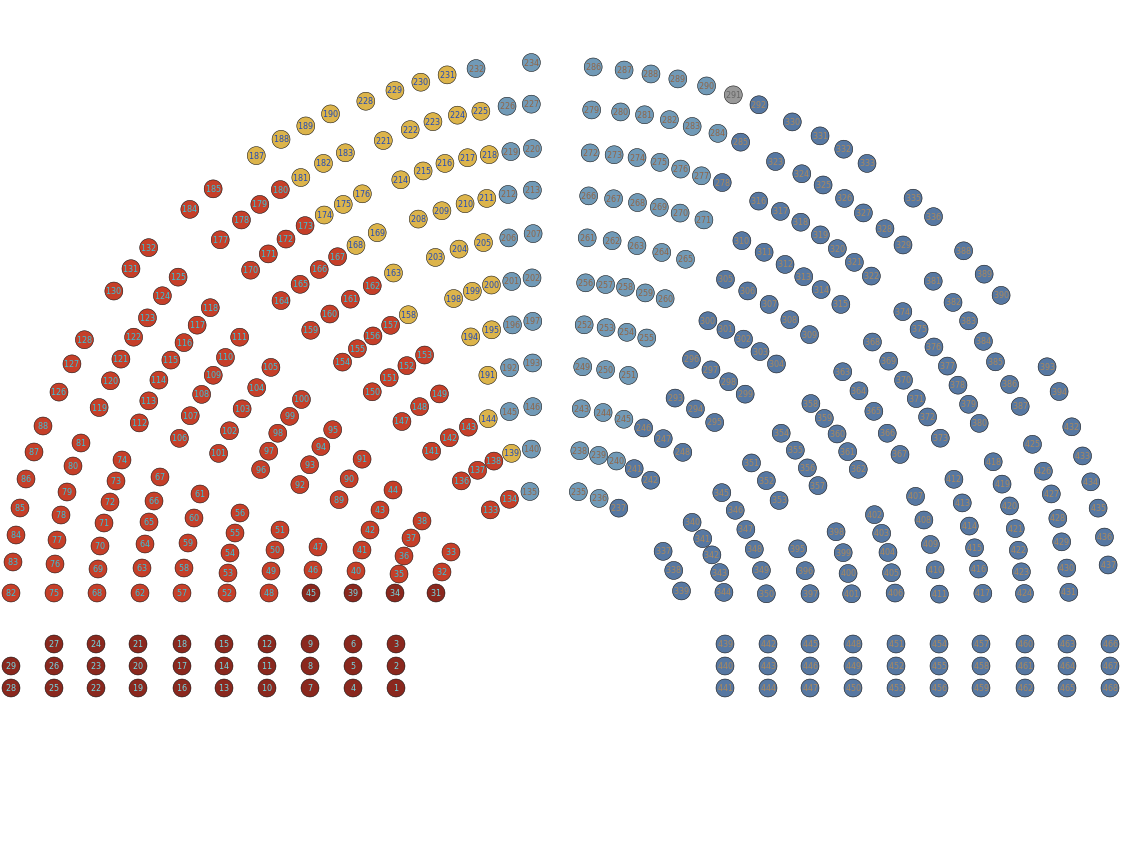
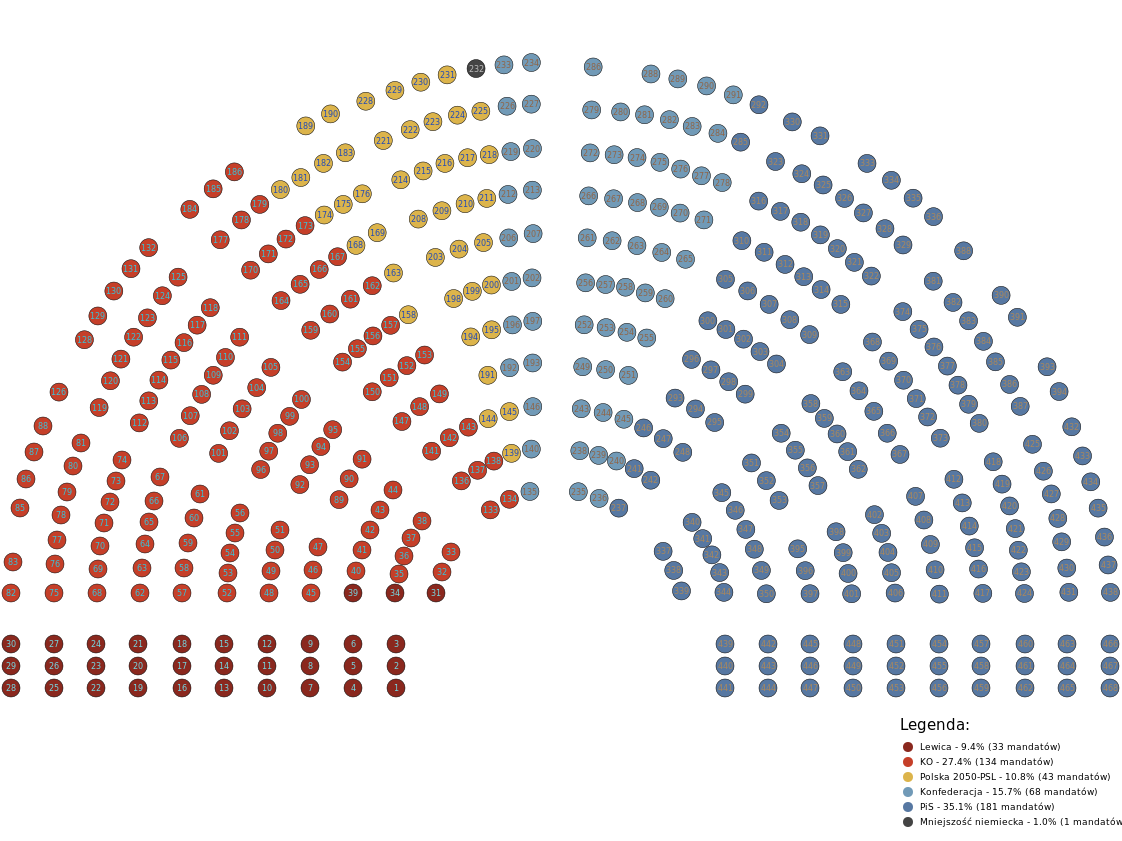
Legend

diff --git a/pyrlament/generator.py b/pyrlament/generator.py
@@ -161,9 +161,11 @@ class SeatsGenerator:
 
     _skip_empty_seats = True
 
-    def __init__(self, parties: List[Party], logotype: Optional[str] = None, skip_empty_seats: bool = True):
+    def __init__(self, parties: List[Party], logotype: Optional[str] = None, legend: bool = True,
+                 skip_empty_seats: bool = True):
         self.parties = parties
-        # self.logotype = logotype
+        self.logotype = logotype
+        self.legend = legend
         self._skip_empty_seats = skip_empty_seats
         self._multiply_center_sectors()
         seats = self._left_sector + self._center_sector + self._right_sector
@@ -369,9 +371,6 @@ class SeatsGenerator:
                 self._set_seat_color(seat, color)
                 cnt += 1
 
-    def _put_logotype(self):
-        pass
-
     def _get_svg(self):
         svg = drawsvg.Drawing(1122, 841, overflow="hidden")
         g = drawsvg.Group(transform="translate(0 50)")
@@ -392,9 +391,20 @@ class SeatsGenerator:
                 g.append(seat_number)
         svg.append(g)
 
-        if self.logotype:
-            logotype = drawsvg.Rectangle(0, 0, 190, 190)
-            svg.append(logotype)
+        # if self.logotype:
+        #     logotype = drawsvg.Rectangle(0, 0, 190, 190)
+        #    svg.append(logotype)
+
+        if self.legend:
+            legend = drawsvg.Group(transform="translate(900 730)")
+            legend.append(drawsvg.Text("Legenda:", 15, 0, 0, fill="#000000", font_family="sans-serif"))
+            cr_x = 20
+            cr_y = 20
+            for party in self.parties:
+                legend.append(drawsvg.Circle(cr_x-12, cr_y-3, 5, fill=f"#{party.color}"))
+                legend.append(drawsvg.Text(f"{party.label} - {party.support}% ({party.seats} mandatów)", 9, cr_x, cr_y, fill="#000000", font_family="sans-serif"))
+                cr_y += 15
+            svg.append(legend)
 
         return svg
 

diff --git a/pyrlament/data.py b/pyrlament/data.py
@@ -5,11 +5,18 @@ from pydantic import BaseModel
 
 class Party(BaseModel):
     name: str
+    label: str
     support: float
     threshold: int = 5
     seats: Optional[int] = None
     color: Optional[str] = None
     order: int = 0
+
+    def __init__(self, **kwargs):
+        print(kwargs)
+        if 'name' in kwargs and 'label' not in kwargs:
+            kwargs['label'] = kwargs['name']
+        super(Party, self).__init__(**kwargs)
 
 
 class Candidate(BaseModel):
@@ -102,7 +109,7 @@ GENERAL_SUPPORT = PartySupportList.load(
     2019,
 )
 
-GERMAN_MINORITY = Party(name="Mniejszość niemiecka", support=1, threshold=0, seats=1, color="999999")
+GERMAN_MINORITY = Party(name="Mniejszość niemiecka", support=1, threshold=0, seats=1, color="444444")
 
 DISTRICTS = [
     District(

diff --git a/pyrlament/scripts.py b/pyrlament/scripts.py
@@ -6,7 +6,7 @@ def demo():
     election2019 = [
         Party(name="Lewica", support=9.4, color="8A281E"),
         Party(name="KO", support=27.4, threshold=8, color="C53F29"),
-        Party(name="PSL", support=10.8, color="DCB44B"),
+        Party(name="PSL", label="Polska 2050-PSL", support=10.8, threshold=8, color="DCB44B"),
         Party(name="Konfederacja", support=15.7, color="719AB7"),
         Party(name="PiS", support=35.1, threshold=8, color="5778A2"),
     ]

diff --git a/demo.py b/demo.py
@@ -8,7 +8,7 @@ from pyrlament.data import Party
 election2019 = [
     Party(name="Lewica", support=9.4, color="8A281E"),
     Party(name="KO", support=27.4, threshold=8, color="C53F29"),
-    Party(name="PSL", support=10.8, color="DCB44B"),
+    Party(name="PSL", label="Polska 2050-PSL", support=10.8, threshold=8, color="DCB44B"),
     Party(name="Konfederacja", support=15.7, color="719AB7"),
     Party(name="PiS", support=35.1, threshold=8, color="5778A2"),
 ]

diff --git a/README.md b/README.md
@@ -20,7 +20,7 @@ Python library for visualizing seats in the Sejm of the Republic of Poland. So f
         Party(name="PiS", support=43.59, threshold=8),
         Party(name="KO", support=27.4, threshold=8),
         Party(name="Lewica", support=12.56),
-        Party(name="PSL", support=8.55),
+        Party(name="PSL", label="Polska 2050-PSL", support=10.8, threshold=8, color="DCB44B"),
         Party(name="Konfederacja", support=6.81),
     }
     election = SeatsCounter(parties=election2019)
